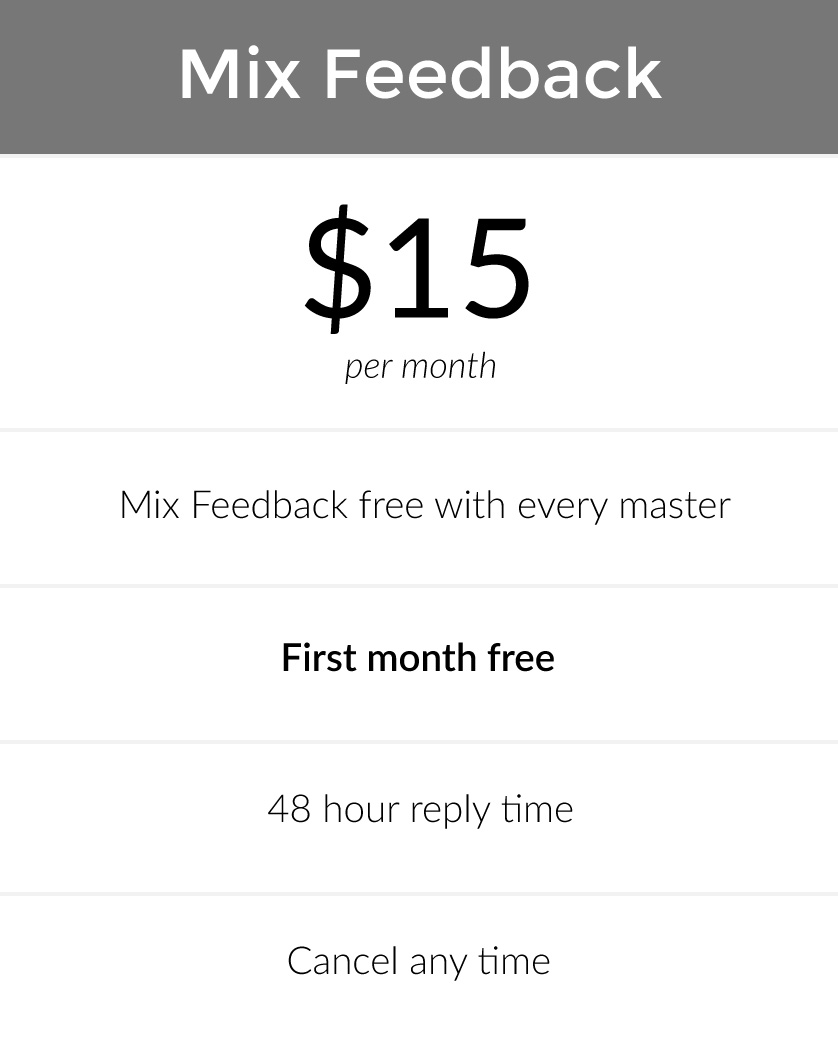
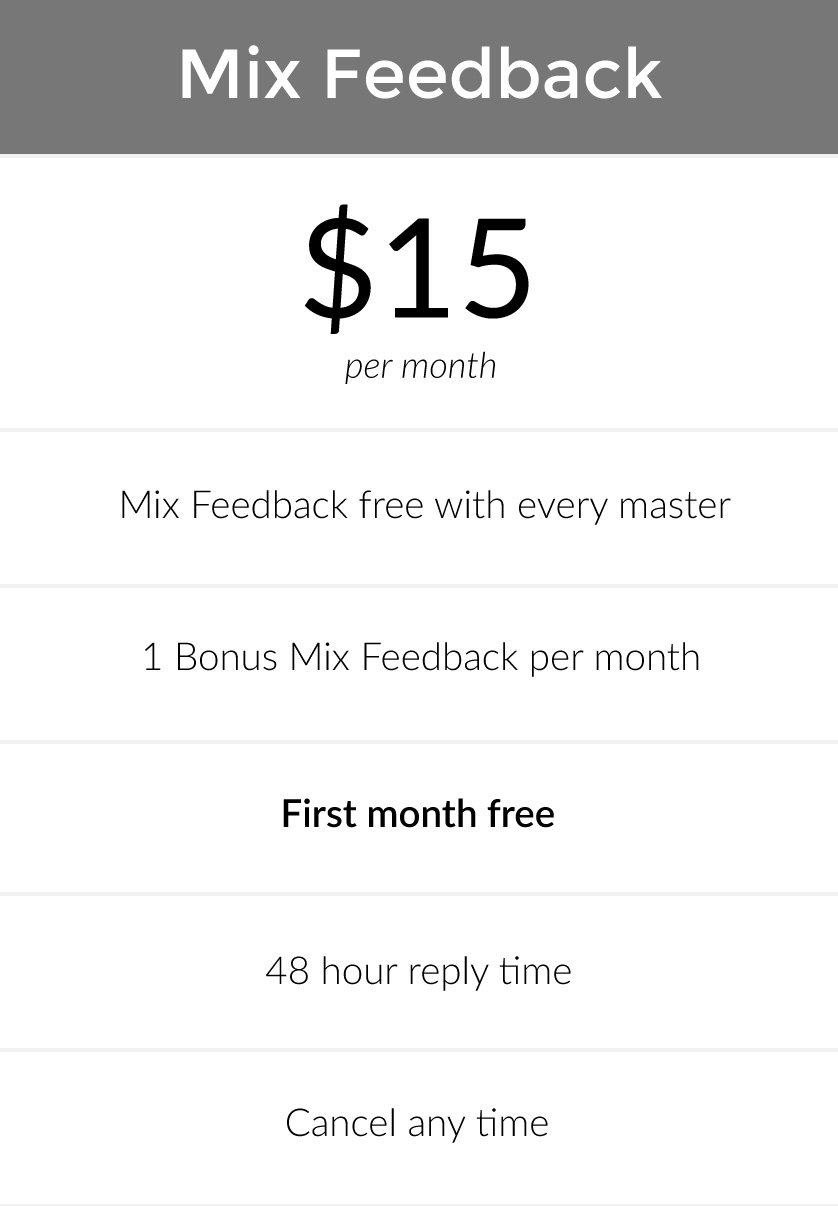
mix feedback addition

diff --git a/_site/index.html b/_site/index.html
@@ -355,7 +355,7 @@ function audioPlayPause(){
     Signing up as a Mix Feedback member lets you enjoy the detailed assistance of your mastering engineer with any mix level issues you are having before the mastering stage, along with their professional opinion of your mix. This additional stage in the mastering process is a win-win: you get to stay in control and hone your mixing and recording skills, while we get to give you the absolute best master possible.
     <br>
     <br>
-    While we launch, try us out with your first month free, and receive free Mix Feedback with every master. Start learning from professionals today!
+    While we launch, try us out with your first month free, and receive free Mix Feedback with every master. Plus receive one bonus Mix Feedback every month for songs you're not ready to master. Start learning from professionals today!
   </div>
 
    <div class="col-md-1">
@@ -395,7 +395,7 @@ function audioPlayPause(){
     Signing up as a Mix Feedback member lets you enjoy the detailed assistance of your mastering engineer with any mix level issues you are having before the mastering stage, along with their professional opinion of your mix. This additional stage in the mastering process is a win-win: you get to stay in control and hone your mixing and recording skills, while we get to give you the absolute best master possible.
     <br>
     <br>
-    While we launch, try us out with your first month free, and receive free Mix Feedback with every master. Start learning from professionals today!
+    While we launch, try us out with your first month free, and receive free Mix Feedback with every master. Plus receive one bonus Mix Feedback every month for songs you're not ready to master. Start learning from professionals today!
   </div>
 
 

diff --git a/_includes/rates-services.html b/_includes/rates-services.html
@@ -22,7 +22,7 @@
     Signing up as a Mix Feedback member lets you enjoy the detailed assistance of your mastering engineer with any mix level issues you are having before the mastering stage, along with their professional opinion of your mix. This additional stage in the mastering process is a win-win: you get to stay in control and hone your mixing and recording skills, while we get to give you the absolute best master possible.
     <br>
     <br>
-    While we launch, try us out with your first month free, and receive free Mix Feedback with every master. Start learning from professionals today!
+    While we launch, try us out with your first month free, and receive free Mix Feedback with every master. Plus receive one bonus Mix Feedback every month for songs you're not ready to master. Start learning from professionals today!
   </div>
 
    <div class="col-md-1">
@@ -62,7 +62,7 @@
     Signing up as a Mix Feedback member lets you enjoy the detailed assistance of your mastering engineer with any mix level issues you are having before the mastering stage, along with their professional opinion of your mix. This additional stage in the mastering process is a win-win: you get to stay in control and hone your mixing and recording skills, while we get to give you the absolute best master possible.
     <br>
     <br>
-    While we launch, try us out with your first month free, and receive free Mix Feedback with every master. Start learning from professionals today!
+    While we launch, try us out with your first month free, and receive free Mix Feedback with every master. Plus receive one bonus Mix Feedback every month for songs you're not ready to master. Start learning from professionals today!
   </div>
 
 
